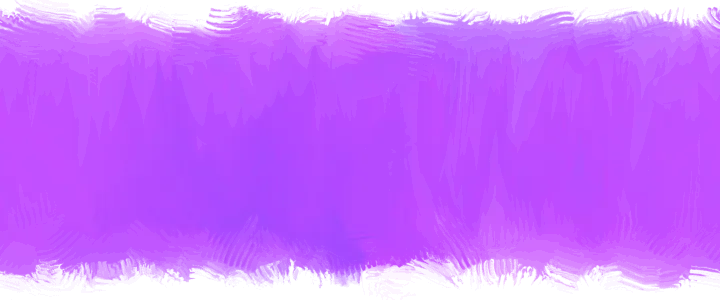
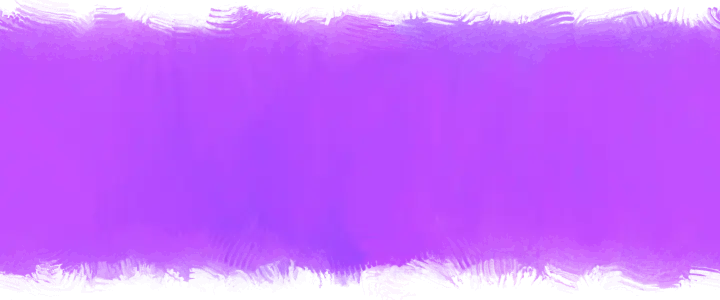
Started adding values Made mid image fully opaque in middle Extracted section header to component

diff --git a/i18n/locales/fr.ts b/i18n/locales/fr.ts
@@ -22,4 +22,36 @@ export default {
   contact: 'Nous contacter',
   visitWebsite: 'Visiter le Site',
   showcaseMediaAlt: 'Aperçu n°{n} de {name}',
+  allValues: {
+    fast: {
+      header: 'Web rapide',
+      content:
+        'Pas de poids mort, pas de backend sauf si nécéssaire, efficace par design, code et médias optimisés.',
+    },
+    safe: {
+      header: 'Web sécurisé',
+      content:
+        "Minimum de dépendences, pas de CMS/panneau admin sauf si nécéssaire, sécurité du code et de l'infrastructure par design.",
+    },
+    private: {
+      header: 'Web privé',
+      content:
+        'Pas de cookies sauf si nécéssaire, suivi seulement avec consentement informé, aller plus loin que les lois sur le respect de la vie privée, sites web majoritairement fonctionnels sans JavaScript.',
+    },
+    future: {
+      header: 'Web évolutif',
+      content:
+        'Minimum de dépendences, pas de CMS/panneau admin sauf si nécéssaire, dernières technologies stables, code source lisible et facile à migrer, stacks open source.',
+    },
+    inclusive: {
+      header: 'Web inclusif',
+      content:
+        'Accessibilité, multilinguisme, thèmes claires/foncés, support des périphériques anciens & lents, support pour tous les navigateurs principaux, sites web majoritairement fonctionnels sans JavaScript.',
+    },
+    proud: {
+      header: 'Web fier',
+      content:
+        "Pas de sites web pour des activités violentes/exploitantes/malhonnête, pas de contenu bâclé IA, pas d'entrainement IA sur les données de nos clients, pas de profilage sournois, règles compréhensibles par des humains, partage de code & resources & connaissances. Contribution à des projets open source.",
+    },
+  },
 }

diff --git a/i18n/locales/en.ts b/i18n/locales/en.ts
@@ -21,4 +21,36 @@ export default {
   contact: 'Contact us',
   visitWebsite: 'Visit Website',
   showcaseMediaAlt: 'Preview n°{n} of {name}',
+  allValues: {
+    fast: {
+      header: 'Fast web',
+      content:
+        'No bloat, no backend unless necessary, efficient by design, optimized code and assets.',
+    },
+    safe: {
+      header: 'Safe web',
+      content:
+        'Minimal dependencies, no CMS/admin panels unless necessary, code and infrastructure safety by design.',
+    },
+    private: {
+      header: 'Private web',
+      content:
+        'No cookies unless necessary, tracking only with informed consent, go beyond privacy laws, mostly-working websites without JavaScript.',
+    },
+    future: {
+      header: 'Future-proof web',
+      content:
+        'Minimal dependencies, no CMS/admin panels unless necessary, latest stable tech, readable & easy to migrate source code, open source stacks.',
+    },
+    inclusive: {
+      header: 'Inclusive web',
+      content:
+        'Accessibility, multilangual, light/dark themes, support for old & slow devices, support for all major browsers, mostly-working websites without JavaScript.',
+    },
+    proud: {
+      header: 'Proud web',
+      content:
+        'No websites for violent/exploitative/dishonest activities, no AI content slop, no AI training from our client’s content, no sneaky profiling, human-readable policies, sharing of code & resources & knowledge. Contribution to open source projects.',
+    },
+  },
 }

diff --git a/app/components/Landing.vue b/app/components/Landing.vue
@@ -1,5 +1,5 @@
 <template>
-  <div class="with-bg relative flex">
+  <div class="with-bg header-bg relative flex">
     <div
       class="with-overlay flex min-h-screen w-full flex-col items-center pb-20 sm:pb-32 lg:justify-center lg:pb-20"
     >
@@ -71,32 +71,3 @@
 import Yhrel from '~/assets/images/yhrel.webp'
 import { sections } from '~/sections'
 </script>
-<style>
-@reference "~/assets/css/main.css";
-.with-bg::after {
-  display: block;
-  content: '';
-  position: absolute;
-  top: 0;
-  left: 0;
-  width: 100%;
-  height: 100%;
-  z-index: -1;
-  background: url(/images/header-bg.webp);
-  background-size: cover;
-  background-position: center center;
-  transform: translateZ(-0.5px) scale(1.6);
-}
-
-.with-overlay::after {
-  display: block;
-  content: '';
-  position: absolute;
-  top: 0;
-  left: 0;
-  width: 100%;
-  height: 100%;
-  @apply bg-neutral-100/70;
-  transform: translateZ(-0.5px) scale(1.6);
-}
-</style>

diff --git a/app/assets/css/main.css b/app/assets/css/main.css
@@ -120,3 +120,37 @@
     transform: rotate(50deg);
   }
 }
+
+.with-bg::after {
+  display: block;
+  content: '';
+  position: absolute;
+  top: 0;
+  left: 0;
+  width: 100%;
+  height: 100%;
+  z-index: -1;
+  background-size: cover;
+  background-position: center center;
+  transform: translateZ(-0.5px) scale(1.6);
+}
+
+.header-bg::after {
+  background: url(/images/header-bg.webp);
+}
+
+.values-bg::after {
+  background: url(/images/values-bg.webp);
+}
+
+.with-overlay::after {
+  @apply bg-neutral-100/70;
+  display: block;
+  content: '';
+  position: absolute;
+  top: 0;
+  left: 0;
+  width: 100%;
+  height: 100%;
+  transform: translateZ(-0.5px) scale(1.6);
+}

diff --git a/app/values.ts b/app/values.ts
@@ -1,0 +1,31 @@
+export interface Value {
+  slug: string
+  icon: string
+}
+
+export const values: Value[] = [
+  {
+    slug: 'fast',
+    icon: 'material-symbols:rocket-launch-outline-rounded',
+  },
+  {
+    slug: 'safe',
+    icon: 'material-symbols:security-rounded',
+  },
+  {
+    slug: 'private',
+    icon: 'material-symbols:eyeglasses-2-rounded',
+  },
+  {
+    slug: 'future',
+    icon: 'material-symbols:history-edu-outline-rounded',
+  },
+  {
+    slug: 'inclusive',
+    icon: 'material-symbols:volunteer-activism-outline-rounded',
+  },
+  {
+    slug: 'proud',
+    icon: 'material-symbols:diversity-2-outline-rounded',
+  },
+]

diff --git a/app/components/Contact.vue b/app/components/Contact.vue
@@ -1,18 +1,13 @@
 <template>
-  <SectionHeader v-bind="sections[0]!" />
+  <SectionHeader v-bind="sections[2]!" />
   <div class="bg-nt1-offwhite -mt-16">
     <div
       class="mx-2 min-h-screen bg-white px-4 py-20 sm:mx-4 sm:px-8 md:px-16 md:py-32 lg:mx-16"
     >
-      <ul class="flex flex-col gap-16">
-        <li v-for="showcase in showcases" :key="showcase.slug">
-          <Showcase v-bind="showcase" />
-        </li>
-      </ul>
+      <ul class="flex flex-col gap-16"></ul>
     </div>
   </div>
 </template>
 <script setup lang="ts">
 import { sections } from '~/sections'
-import { showcases } from '~/showcases'
 </script>

diff --git a/app/components/SectionHeader.vue b/app/components/SectionHeader.vue
@@ -1,0 +1,16 @@
+<template>
+  <div
+    :id="long"
+    class="relative z-10 -mt-16 flex h-60 w-full -scroll-mt-16 items-center justify-center gap-4 bg-[url(/images/mid.webp)] bg-size-[auto_100%] bg-center text-white md:h-72"
+  >
+    <Icon class="shrink-0 text-3xl md:text-[2.5rem]" :name="icon" />
+    <h3 class="text-xl font-semibold md:text-3xl">
+      {{ $t(long) }}
+    </h3>
+  </div>
+</template>
+<script setup lang="ts">
+import type { Section } from '~/sections'
+
+defineProps<Section>()
+</script>

diff --git a/app/components/Values.vue b/app/components/Values.vue
@@ -1,0 +1,11 @@
+<template>
+  <SectionHeader v-bind="sections[1]!" />
+  <div class="with-bg values-bg relative flex">
+    <div
+      class="flex min-h-screen w-full flex-col items-center pb-20 sm:pb-32 lg:justify-center lg:pb-20"
+    ></div>
+  </div>
+</template>
+<script setup lang="ts">
+import { sections } from '~/sections'
+</script>

diff --git a/app/sections.ts b/app/sections.ts
@@ -1,9 +1,11 @@
-export const sections: {
+export interface Section {
   short: string
   long: string
   icon: string
   highlight: boolean
-}[] = [
+}
+
+export const sections: Section[] = [
   {
     short: 'creationsShort',
     long: 'creations',

diff --git a/app/pages/index.vue b/app/pages/index.vue
@@ -1,6 +1,8 @@
 <template>
   <Landing />
   <Creations />
+  <Values />
+  <Contact />
 </template>
 <script setup lang="ts">
 defineOgImageComponent('NaitoOne', {
